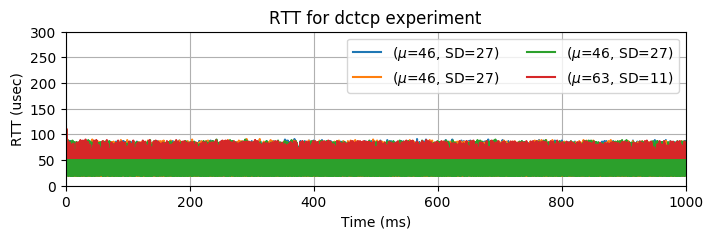
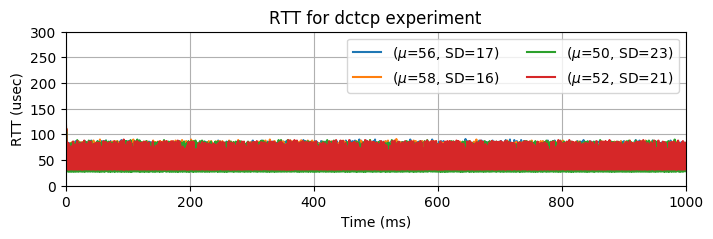
Choose flows that highlight the difference

diff --git a/lib/reproduction_sim.py b/lib/reproduction_sim.py
@@ -66,10 +66,10 @@ def main():
                                               timely_style=True)
         timely_thp = benchmark_tools.plot_throughput(congestion_alg, num_clients, out_dir, \
                                                      conn_per_client=num_conn_per_client, nplot=4,
-                                                     timely_style=True, flows=[2,0,8,14])
+                                                     timely_style=True, flows=[3,1,4,6])
         benchmark_tools.plot_rate(congestion_alg, num_clients, out_dir, \
                                   conn_per_client=num_conn_per_client, nplot=4,
-                                  timely_style=True, flows=[2,0,8,14])
+                                  timely_style=True, flows=[3,1,4,6])
         benchmark_tools.plot_queue(congestion_alg, out_dir)
 
 
